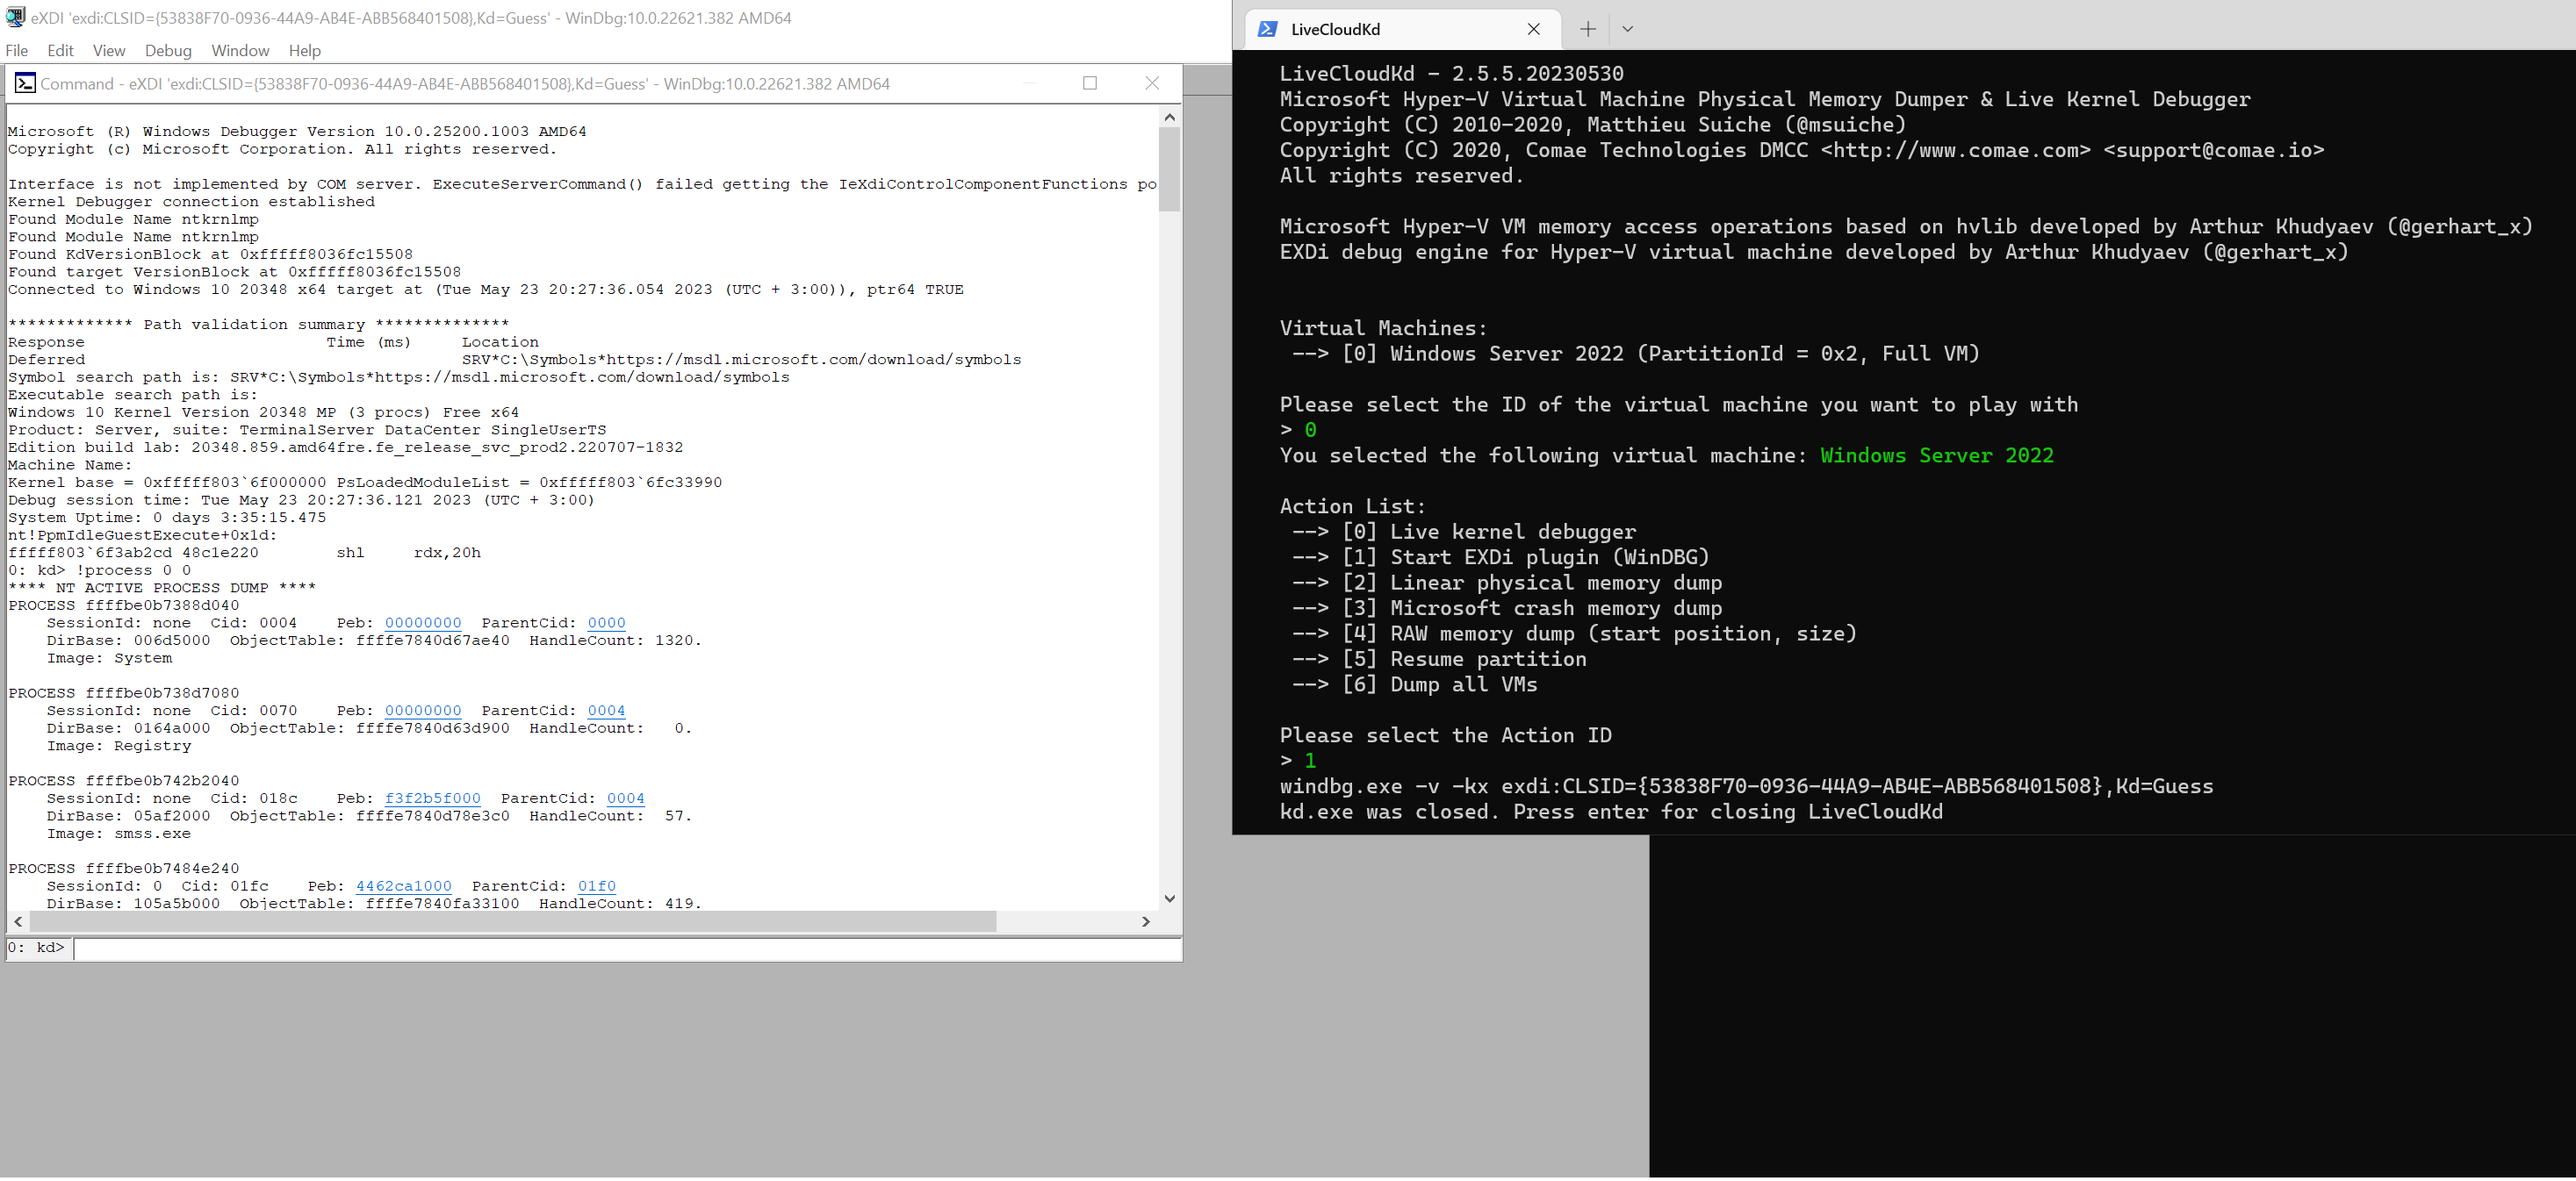
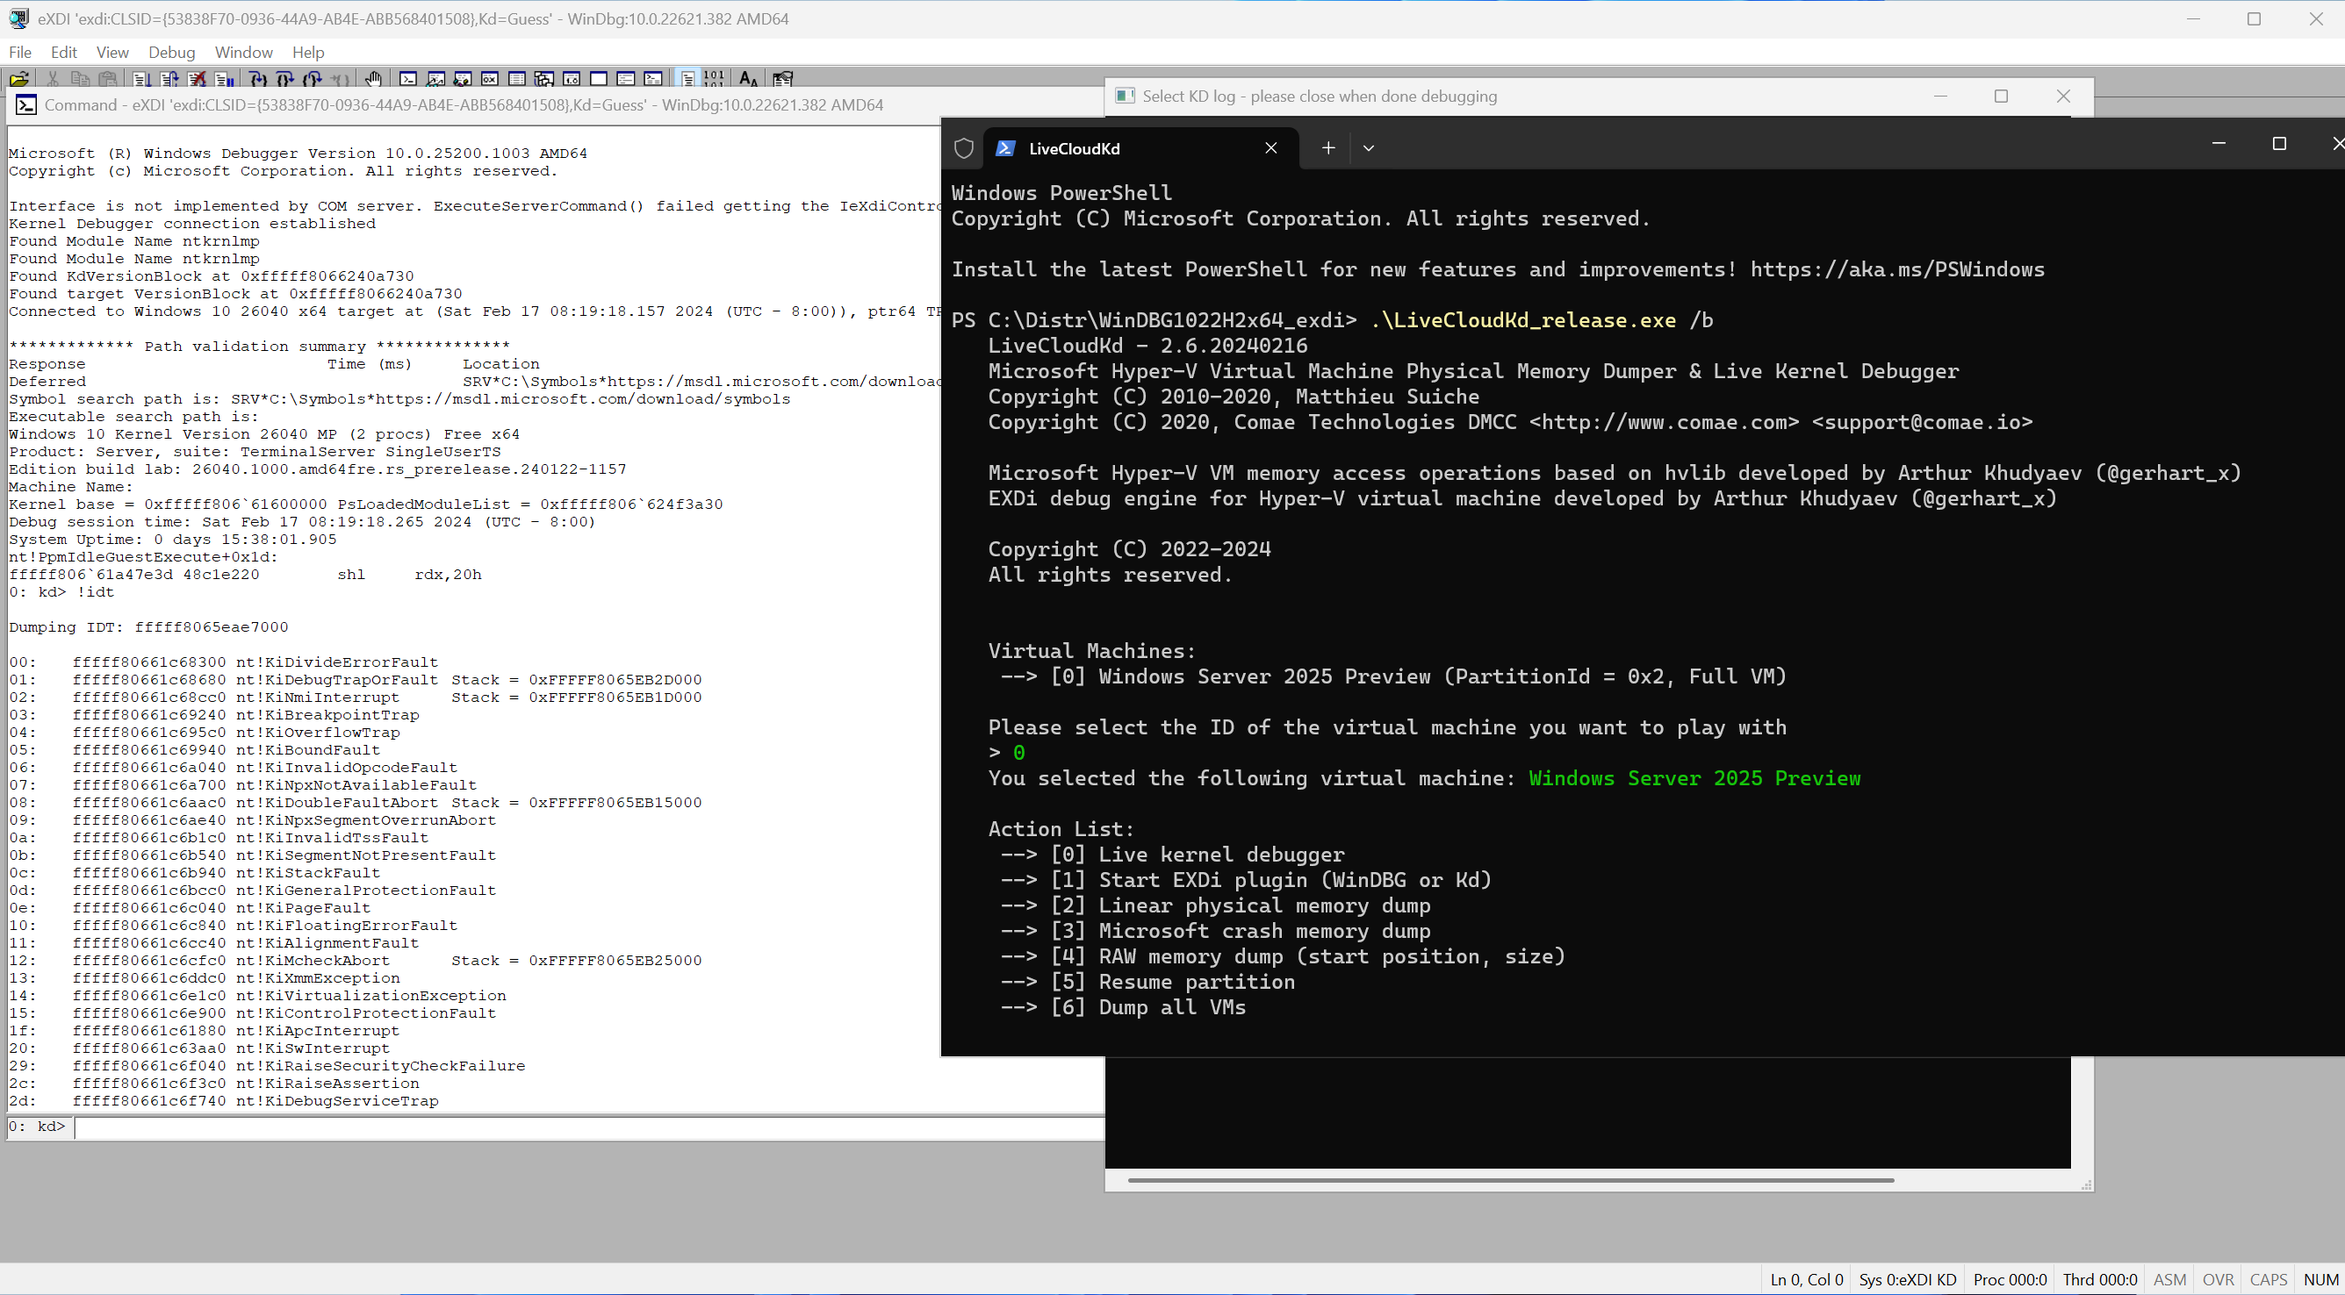
Update LiveCloudKd.v2.6.20240216

diff --git a/README.md b/README.md
@@ -1,10 +1,12 @@
 This is fork of LiveCloudKd early developed by Matt Suiche [@msuiche](https://www.twitter.com/msuiche) - https://github.com/msuiche/LiveCloudKd
 
-## LiveCloudKd (2023).
+## LiveCloudKd (2024).
 
-LiveCloudKd is tool, that allows you connect to Hyper-V guest VM with kd.exe (or WinDBG.exe and WinDBG with modern UI (ex. WinDBG Preview). Also you can use LiveCloudKd EXDi plugin for attaching to Hyper-V VM.  
+LiveCloudKd is tool, that allows you connect to Hyper-V guest VM with kd.exe (or WinDBG.exe and WinDBG with modern UI). 
+
+Also you can use LiveCloudKd EXDi plugin for attaching to Hyper-V VM.  
+
 Tool uses Hyper-V Memory Manager plugin for operations with Hyper-V memory.
-
 Tool has additional options in compare with LiveKd from Microsoft Sysinternals Suite:
 
 1. Write capabilities (you can write to Hyper-V VM in virtual and physical address space using native WinDBG commands)
@@ -13,9 +15,10 @@ Tool has additional options in compare with LiveKd from Microsoft Sysinternals S
 4. Support multilanguage OS
 
 LiveCloudKd. [Download](https://github.com/gerhart01/LiveCloudKd/releases/download/v2.5.5.20230530/LiveCloudKd.v2.5.5.20220530-release.zip)  
-Contains EXDi plugin  
+Contains EXDi plugin:  
 
-![](images/image03.png)
+![WinDBG](images/image03.png)
+![WinDBG with modern UI](images/image04.png)
 
 LiveCloudKd based on hvlib.dll library (Hyper-V memory manager plugin). Other tools, that were developed using this library:
 
@@ -23,7 +26,7 @@ LiveCloudKd EXDi debugger. [Download](https://github.com/gerhart01/LiveCloudKd/r
 Hyper-V Virtual Machine plugin for MemProcFS. [Download](https://github.com/gerhart01/LiveCloudKd/releases/download/v2.5.5.20220914/leechcore_hyperv_plugin_14.09.2022.zip)  
 Hyper-V Memory Manager plugin for volatility. [Download](https://github.com/gerhart01/Hyper-V-Tools/releases/download/1.0.20221109/Hyper-V.Memory.Manager.plugin.for.volatility.v1.0.20221109.zip)  
 
-Methods for accessing guest Hyper-V VM Memory: 
+Methods for accessing guest Hyper-V VM memory: 
 
 	ReadInterfaceWinHv - uses Hyper-V hypercall for reading guest OS memory. Slow, but robust method; 
 	ReadInterfaceHvmmDrvInternal - read data directly from kernel memory. Faster, then ReadInterfaceWinHv, but uses undocument structures). See description of -m option. Default reading method is ReadInterfaceHvmmDrvInternal.
@@ -32,7 +35,7 @@ Methods for accessing guest Hyper-V VM Memory:
 	WriteInterfaceHvmmDrvInternal - write data directly to kernel memory. Faster, then WriteInterfaceWinHv, but uses undocument structures). See description of -m option. Default writing method is WriteInterfaceHvmmDrvInternal.
 	
 
-LiveCloudKd tested on full Windows Server 2016, Windows Server 2019, Windows Server 2022, Windows 10 and Windows 11 operation system (some of preview versions of Windows 11 and Windows Server vNext)
+LiveCloudKd was tested on Windows Server 2016, Windows Server 2019, Windows Server 2022, Windows 10 and Windows 11 operations system (some of preview versions of Windows 11 and Windows Server vNext including Windows Server 2025)
 
 Configure symbol path:
 
@@ -44,12 +47,49 @@ setx /m _NT_SYMBOL_PATH SRV*C:\Symbols*https://msdl.microsoft.com/download/symbo
 
 For launch:
 
-1. Place LiveCloudKd.exe, hvlib.dll, hvmm.sys to WinDBG x64 folder (tested on WinDBG from WDK 1809 - 22H2).
+1. Extract LiveCloudKd.exe, hvlib.dll, hvmm.sys to WinDBG x64 folder (tested on WinDBG from WDK 1809 - 23H2) or separate folder (use /y key for specify directory with WinDBG). 
+   Also LiveCloudKd can find path to WinDBG, if it was installed with Windows WDK or SDK
 2. Launch LiveCloudKd.exe with admin rights (It needs Visual Studio 2022 runtime libraries - https://aka.ms/vs/17/release/vc_redist.x64.exe).
 3. Choose virtual machine (Full VM only) for inspection.  
 
-Performance comparison with LiveKd from Sysinternals Suite, at the time of release (LiveCloudKd is more performanced about 1000 times using ReadInterfaceHvmmDrvInternal interface):
+When starting LiveCloudKd search WinDBG in next steps:
+1. Standard Windows SDK installation folder (using register key)
+2. in Windows Registry HKLM\Software\LiveCloudKd\Parameters in WinDbgPath key. See RegParam.key for instance. 
+3. Set /y parameter with WinDBG path, for instance: 
+
+```
+LiveCloudKd /y C:\Microsoft\WinDBG
+```
+
+4. If previous result is not success, try to run kd.exe from same folder
+
+Performance comparison with LiveKd from Sysinternals Suite, at the time of release (LiveCloudKd is more performance: about 1000 times using ReadInterfaceHvmmDrvInternal interface):
 
 ![](images/image02.png)
+
+LiveCloudKd options:
+
+``` 
+      /a        Pre-selected action.
+                   0 - Live kernel debugging
+                   1 - Start EXDi plugin (WinDBG)
+                   2 - Produce a linear physical memory dump
+                   3 - Produce a Microsoft full memory crash dump
+                   4 - Dump guest OS memory chunk
+                   5 - Dump RAW guest OS memory (without KDBG scanning)
+                   6 - Resume VM
+      /b        Close LiveCloudKd automatically, after exiting from kd or WinDBG.
+      /f        Force freeze CPU on every read operations. It is actual for Windows Sandbox, because it constantly resume CPU.
+      /m        Memory access type.
+                   0 - Winhvr.sys interface
+                   1 - Raw memory interface (hvmm.sys)
+      /n        Pre-selected number of VM.
+      /o        Destination path for the output file (Action 1 - 5).
+      /p        Pause partition.
+      /v        Verbose output.
+      /w        Run Windbg instead of Kd (Kd is the default).
+      /y        Set path to WinDBG or WinDBG with modern UI (for start EXDi plugin)
+      /?        Print this help.
+``` 
 
 Project uses diStorm3 library (BSD license) by [Gil Dabah](https://twitter.com/_arkon): [Distorm project](https://github.com/gdabah/distorm)
